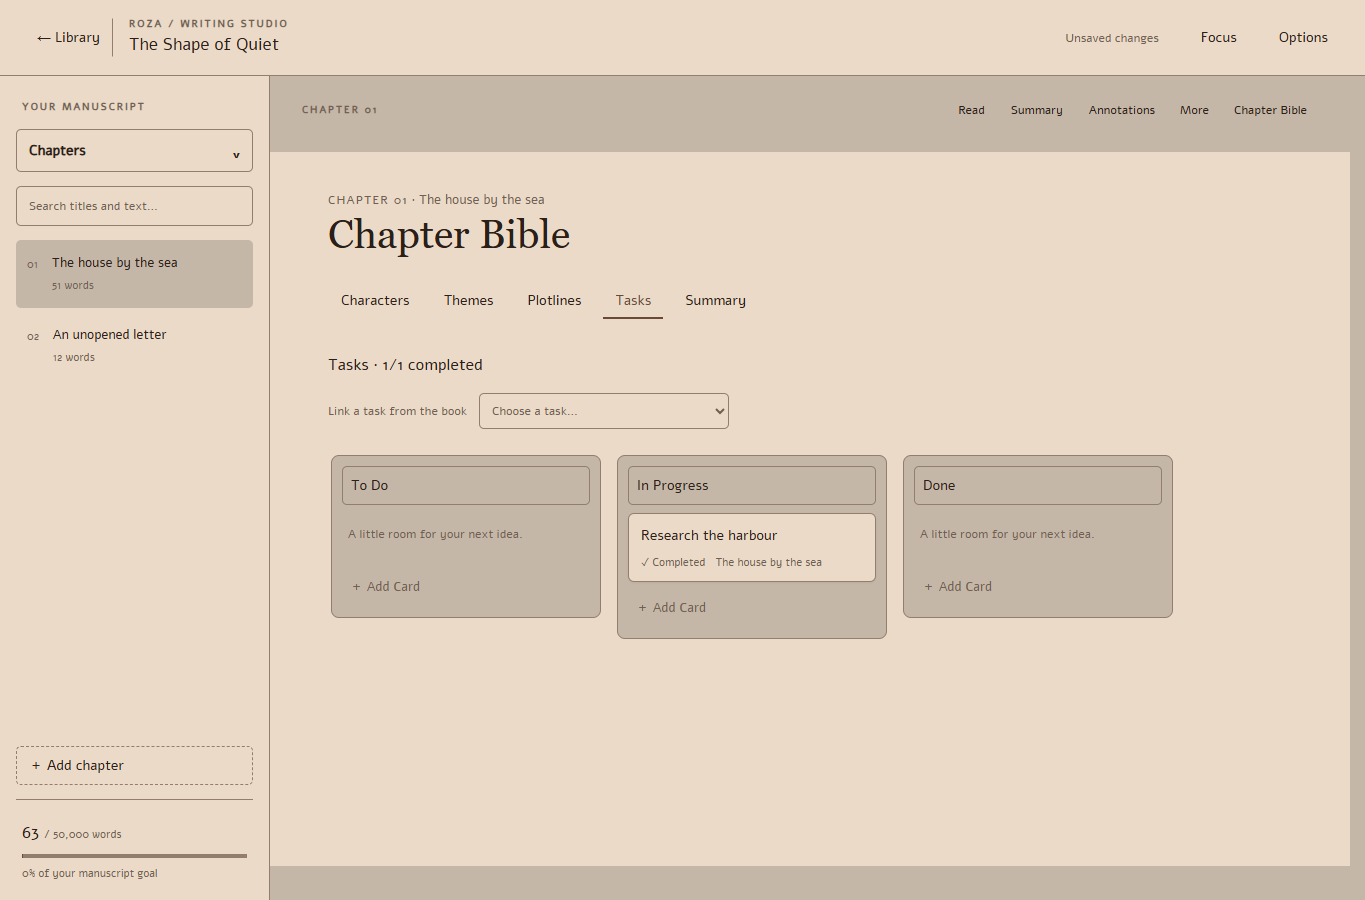
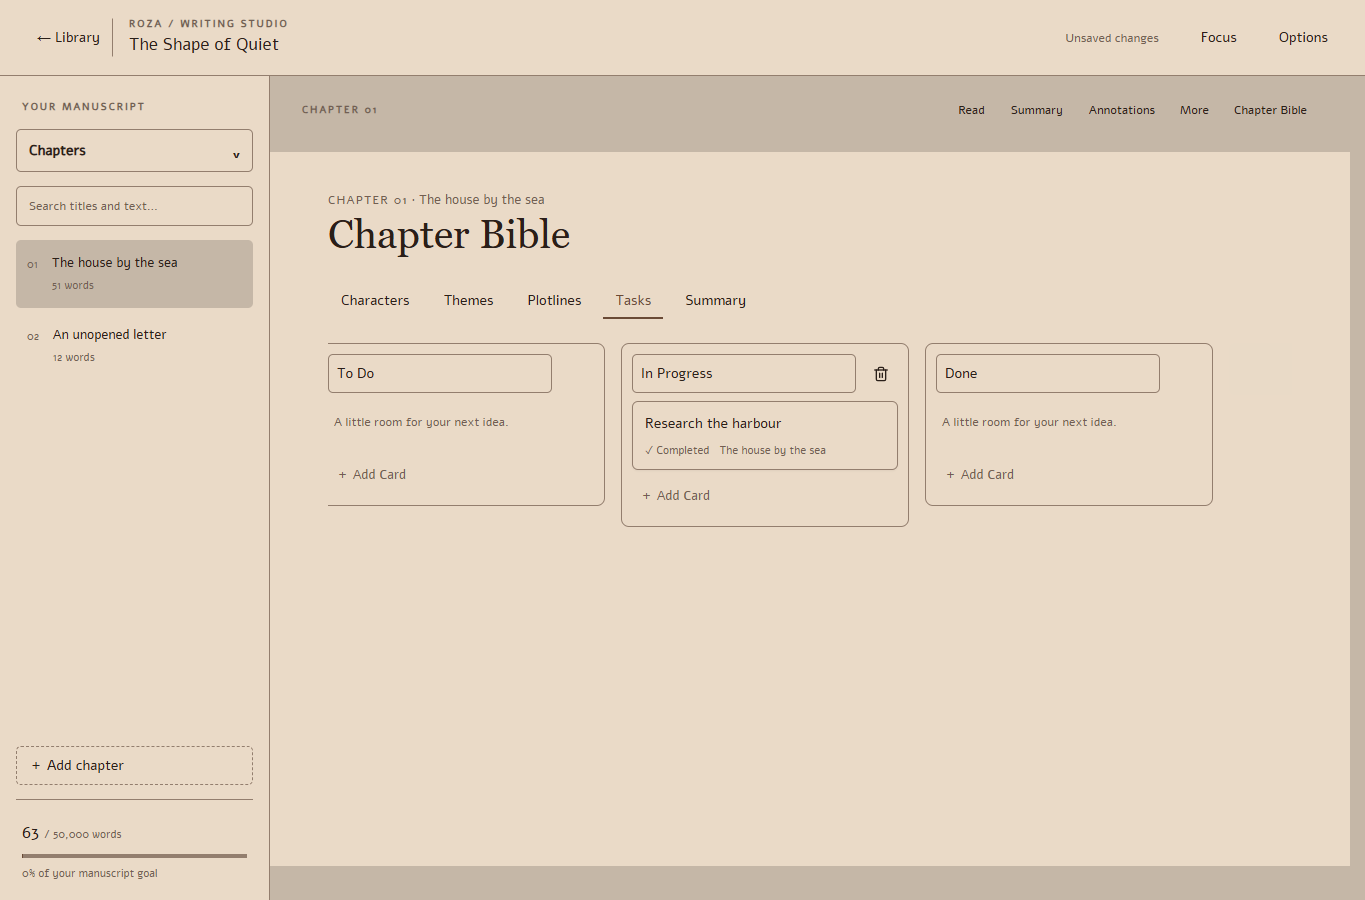
Match chapter task board styling and list controls to book board

Changed region(s): [[0.2154, 0.3733, 0.8615, 0.7156], [0.6769, 0.4044, 0.7077, 0.4356]]

diff --git a/frontend/src/components/WritingStudio/TaskBoard.tsx b/frontend/src/components/WritingStudio/TaskBoard.tsx
@@ -216,15 +216,9 @@ export function TaskBoardView({
               strategy={horizontalListSortingStrategy}
             >
               {board.lists.map(l => (
-                <Sortable
-                  key={l.id}
-                  id={l.id}
-                  kind="list"
-                  disabled={!!chapterId}
-                >
+                <Sortable key={l.id} id={l.id} kind="list">
                   <header>
                     <input
-                      readOnly={!!chapterId}
                       aria-label="List title"
                       maxLength={500}
                       value={l.title}
@@ -235,24 +229,22 @@ export function TaskBoardView({
                         }))
                       }
                     />
-                    {!chapterId && (
-                      <button
-                        className="tb-delete-list"
-                        aria-label={`Delete list ${l.title}`}
-                        title="Delete list"
-                        onClick={() => {
-                          setConfirmation({
-                            message: `Delete “${l.title}” and its ${l.cards.length} tasks? This cannot be undone.`,
-                            action: () =>
-                              change({
-                                lists: board.lists.filter(x => x.id !== l.id),
-                              }),
-                          });
-                        }}
-                      >
-                        <FiTrash2 aria-hidden="true" size={16} />
-                      </button>
-                    )}
+                    <button
+                      className="tb-delete-list"
+                      aria-label={`Delete list ${l.title}`}
+                      title="Delete list"
+                      onClick={() => {
+                        setConfirmation({
+                          message: `Delete “${l.title}” and its ${l.cards.length} tasks?${chapterId ? ` This list is shared with the book.${l.cards.some(c => c.chapterId !== chapterId) ? " It includes tasks outside this chapter." : ""}` : ""} This cannot be undone.`,
+                          action: () =>
+                            change({
+                              lists: board.lists.filter(x => x.id !== l.id),
+                            }),
+                        });
+                      }}
+                    >
+                      <FiTrash2 aria-hidden="true" size={16} />
+                    </button>
                   </header>
                   <SortableContext
                     items={l.cards
@@ -393,21 +385,19 @@ export function TaskBoardView({
                 </Sortable>
               ))}
             </SortableContext>
-            {!chapterId && (
-              <button
-                className="tb-add-list"
-                onClick={() =>
-                  change({
-                    lists: [
-                      ...board.lists,
-                      { id: uid(), title: "New list", cards: [] },
-                    ],
-                  })
-                }
-              >
-                ＋ Add List
-              </button>
-            )}
+            <button
+              className="tb-add-list"
+              onClick={() =>
+                change({
+                  lists: [
+                    ...board.lists,
+                    { id: uid(), title: "New list", cards: [] },
+                  ],
+                })
+              }
+            >
+              ＋ Add List
+            </button>
           </div>
         </DndContext>
       </fieldset>

diff --git a/frontend/src/components/WritingStudio/chapterPlanning.css b/frontend/src/components/WritingStudio/chapterPlanning.css
@@ -399,13 +399,6 @@
 .cp-chapter-bible .tb-chapter .tb-columns {
   padding-top: 14px;
 }
-.cp-chapter-bible .tb-chapter .tb-list {
-  flex-basis: 270px;
-  background: var(--ws-soft);
-}
-.cp-chapter-bible .tb-chapter .tb-card {
-  background: var(--ws-paper);
-}
 .tb-chapter-link {
   display: flex !important;
   align-items: center;

diff --git a/docs/chapter-planning/README.md b/docs/chapter-planning/README.md
@@ -8,7 +8,7 @@ In Chapters, the Chapter Bible button immediately after More switches the manusc
 
 The Characters tab presents searchable cards; Themes and Plotlines use searchable rows. Header actions create new shared entries, and opening a card/row exposes its shared description and separate chapter contribution. Trash icons remove the chapter association and preserve the shared entry. Summary retains its rich-text editor.
 
-The Tasks tab embeds the existing Trello-style board, scoped to this chapter. It supports card creation, editing, completion/reopening, deletion, drag between columns, and linking existing book tasks. Shared column definitions are managed from the book board, so chapter views cannot delete columns containing hidden tasks. Tasks are existing book task-board cards, extended with optional `chapterId` and `completed`. The chapter board and preview inspector edit these same cards; Open in book board opens the original card and list. The board supports chapter assignment/removal and a chapter filter. Completion is explicit, independent of editable board list names.
+The Tasks tab embeds the existing Trello-style board, scoped to this chapter. It supports card creation, editing, completion/reopening, deletion, drag between columns, and linking existing book tasks. Chapter and book task boards share list creation, renaming, sorting and deletion controls. Lists and their tasks are shared; chapter deletion confirmations identify that scope, including tasks outside the chapter. Tasks are existing book task-board cards, extended with optional `chapterId` and `completed`. The chapter board and preview inspector edit these same cards; Open in book board opens the original card and list. The board supports chapter assignment/removal and a chapter filter. Completion is explicit, independent of editable board list names.
 
 Characters, themes and plotlines reuse the existing book libraries. The separate book-wide Story Bible UI has been removed. Shared entities remain accessible through the existing Characters, Themes and Plotlines category editors. Chapter Bible references open those existing editors. Backend fields for role/general notes and optional colors remain preserved. Chapters link to entity IDs, with separate contribution notes for plotlines and characters. Theme tags and compact counts appear on overview cards; filters cover all three libraries and unfinished tasks. Reordering is disabled while filtering to avoid ambiguous moves, while chapter editing remains available.
 
